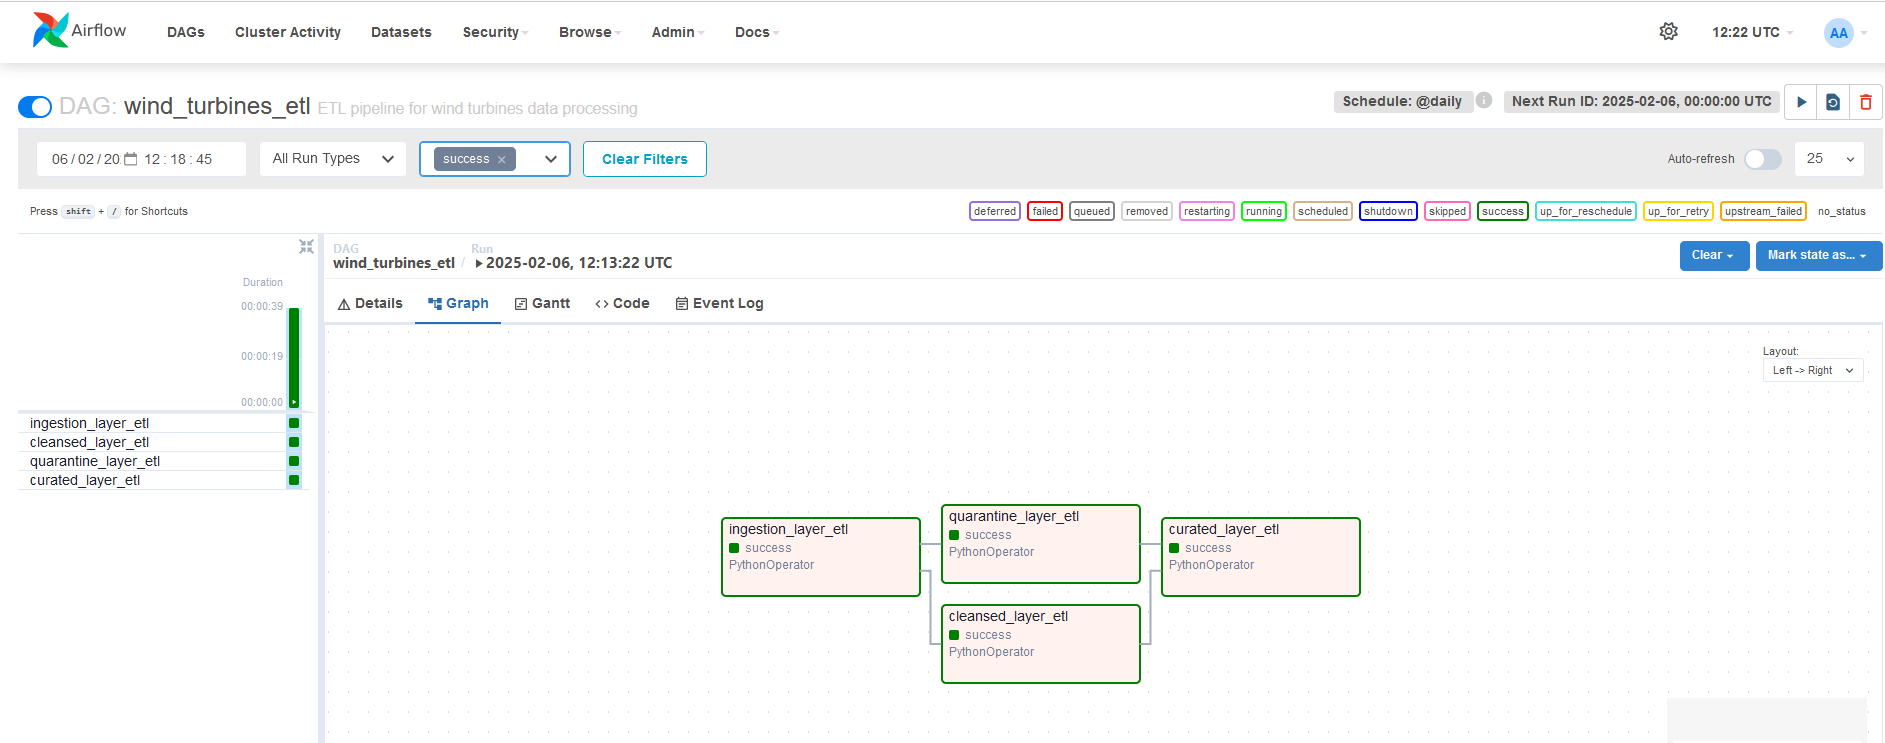
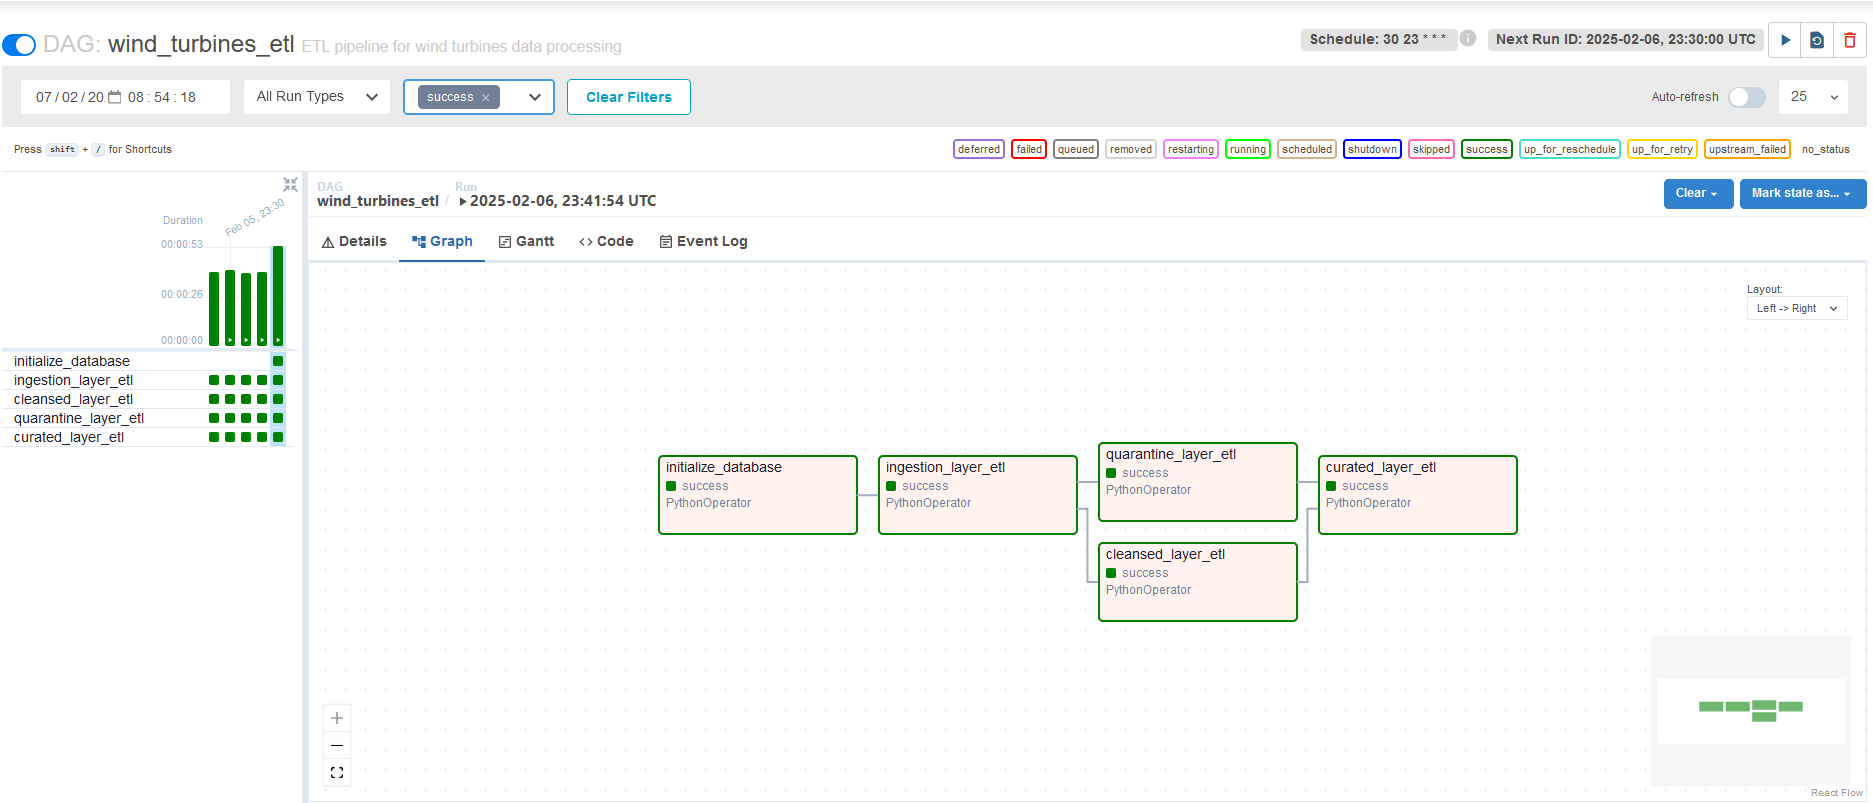
Updated wind_turbines_dag.py module and image.

diff --git a/src/dags/wind_turbines_dag.py b/src/dags/wind_turbines_dag.py
@@ -3,6 +3,9 @@ from airflow.operators.python import PythonOperator
 from datetime import datetime, timedelta
 import logging
 
+# Import the initialization module
+from src.utils.initialize_database import initialize_database
+
 # Import the layer modules
 import src.jobs.wind_turbines.ingestion_layer as ingestion
 import src.jobs.wind_turbines.cleansed_layer as cleansed
@@ -48,9 +51,16 @@ with DAG(
     default_args=default_args,
     description='ETL pipeline for wind turbines data processing',
     schedule_interval='30 23 * * *',  # Adjust this as needed
-    start_date=start_date, # Use the dynamically loaded start_date
+    start_date=start_date,  # Use the dynamically loaded start_date
     catchup=False,
 ) as dag:
+
+    # Task Initialize Database
+    initialize_db = PythonOperator(
+        task_id='initialize_database',
+        python_callable=lambda: initialize_database(env),
+    )
+
     # Task for the ingestion layer
     ingestion_wind_turbine = PythonOperator(
         task_id='ingestion_layer_etl',
@@ -76,4 +86,5 @@ with DAG(
     )
 
     # Set task dependencies
+    initialize_db >> ingestion_wind_turbine  # Ensure DB is ready before ingestion
     ingestion_wind_turbine >> [quarantine_wind_turbine, cleansed_wind_turbine] >> curated_wind_turbine
